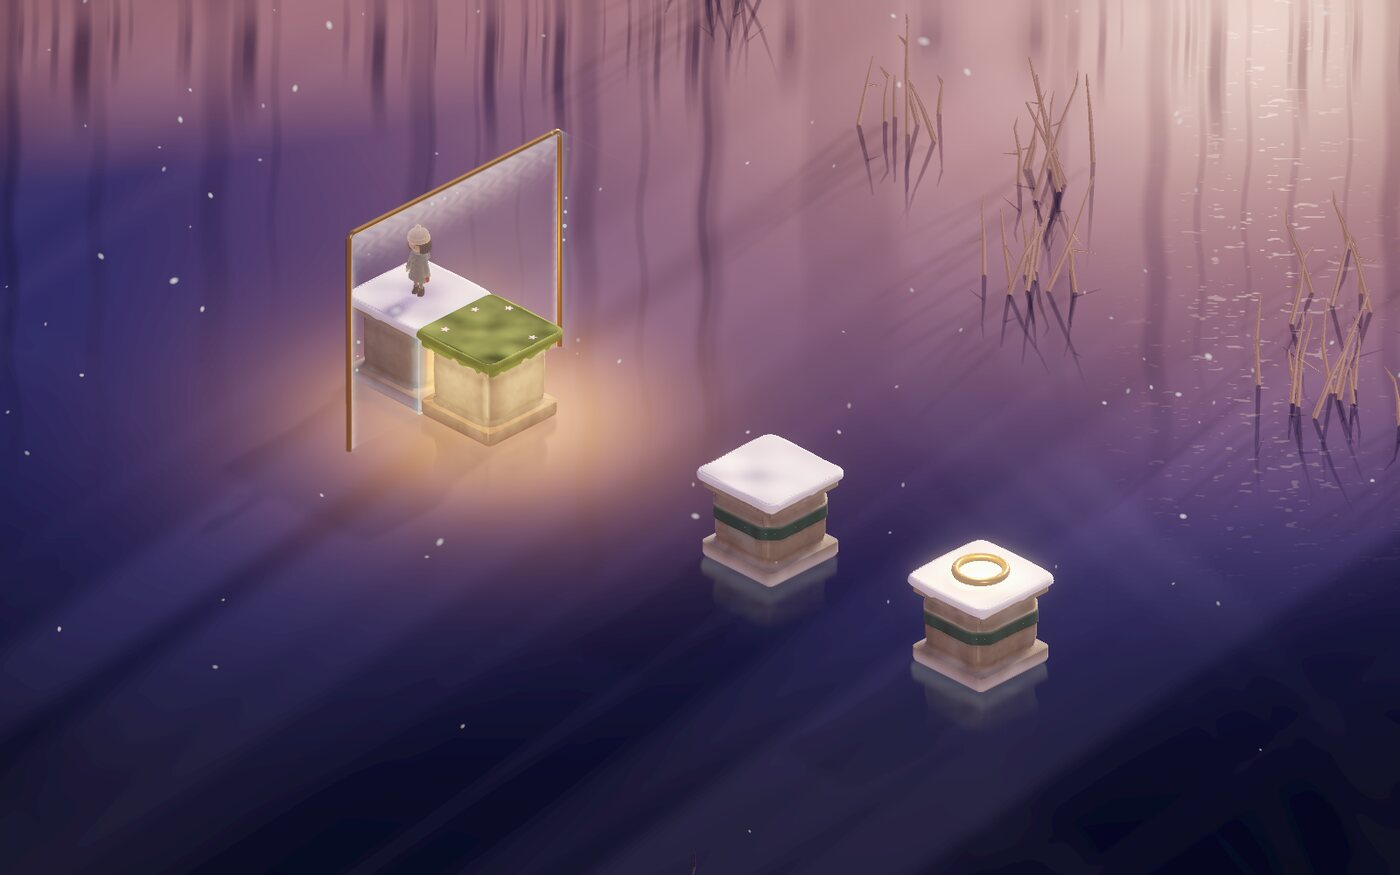
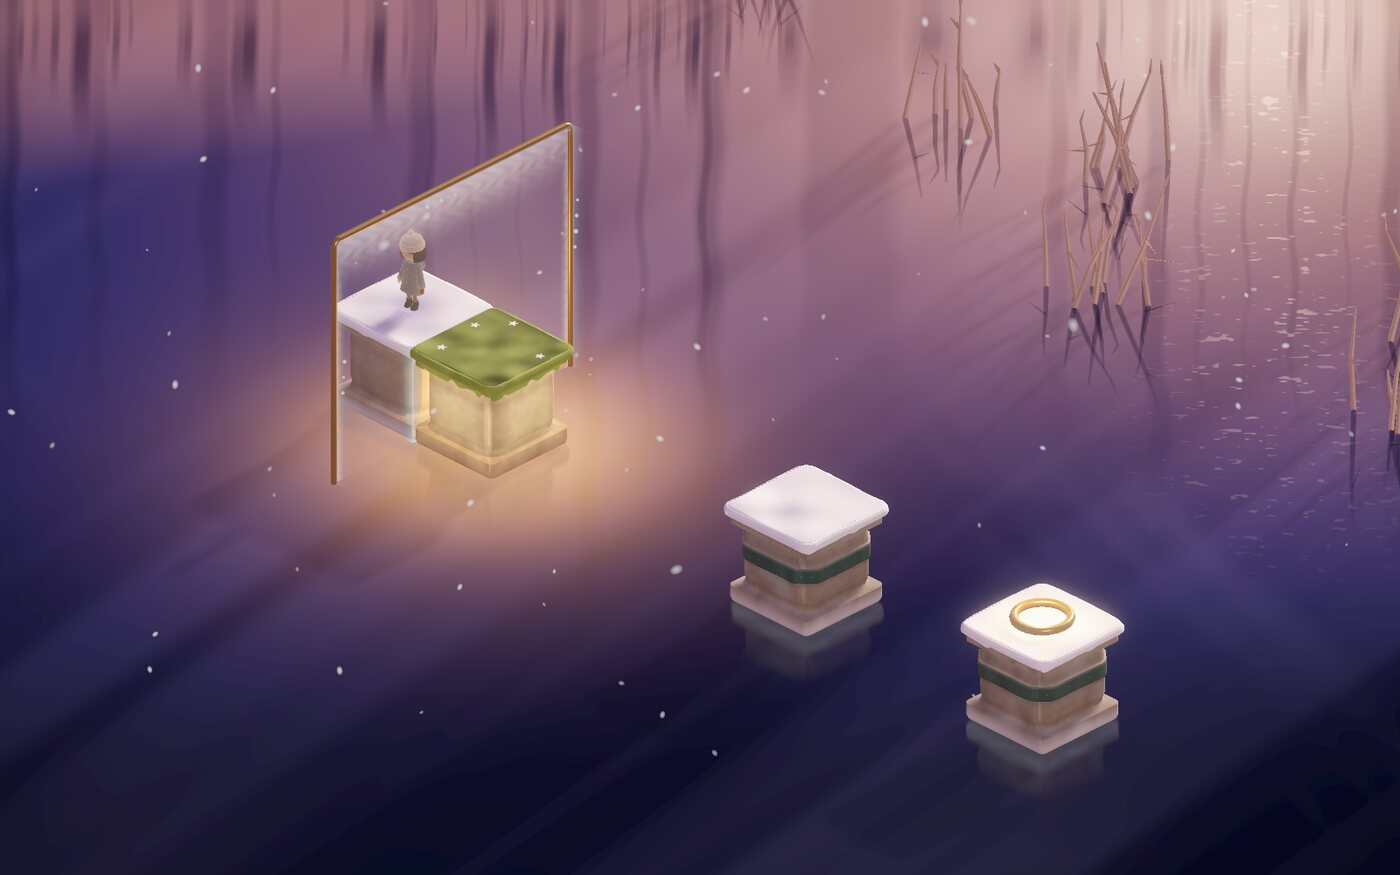
Fit the camera to what is drawn, not to one box round it
The stage camera takes the points a view must show: each solid, the
mirror with room for one step each way, the goal and the girl. One box
round a whole place has corners where nothing stands, and fitting to
them left the place small. A place is 12% larger in its first view and
up to twice as large in a turned view. Callers that give no points get
the old fit.

diff --git a/VALIDATION.md b/VALIDATION.md
@@ -1,7 +1,17 @@
 Entries before commit `b1d2b6d` name studies that were removed. Git history
 keeps them; this log is not rewritten to match.
 
-# Latest check: six more rounds of the polish loop — 2026-11-11
+# Latest check: a tighter camera — 2026-11-11
+
+- Why: the reviews kept listing a small place in an empty frame. Measured first (scratch script, the stage camera's own numbers): the camera fitted the eight corners of one box round everything drawn, and that box has corners where nothing stands. It did not fit unseen control points, as an earlier note said; the ring controls gave no points.
+- Change: `world/stage_camera.gd` takes the points to show (`fit` and `covers` have one new optional argument; with none, they behave as before), and `game.gd` gives it each solid's corners with 0.15 of room, the mirror's corners with one step of room each way, the goal and the girl.
+- Measured scale with the mirror raised, before and after, in pixels per unit: `01_route` 113.4 to 127.2 at 1600x1000 and 44.6 to 50.0 at 844x390; `15_together` 76.3 to 86.0 and 30.0 to 33.8. Turned views gain more (in "Together", about twice the size in its second view). The first view of `01_route` stays the smallest view.
+- Final state, run once, headless, no failures: `run_tests` **689/0**, `gameplay_art_tests` **58/0**, `app_flow_tests` **88/0**, `readability_tests` **11/0**, `level_solvability_tests` **68/0**, `direct_controls_tests` **123/0** (it holds the check that a small slide does not reframe the stage), `edit_mode_tests` **22/0**, `extent_tests` **68/0**, `constellation_tuning_tests` **25/0**, `display_geometry_tests` **4153/0**, `small_fix_tests` **58/0**, `prompt_tests` **84/0**.
+- Pictures: the four views, "Together", the frame with the interface, and for the first time a capture at a true 844x390 with the interface. An independent reviewer (on the state before the room for the mirror's step was added) compared with the wider camera: "closer and larger, so the puzzle reads better", beauty 6/10, readability 6/10 without the interface.
+- Finding, older than this change: **at 844x390 the hint card covers the girl, the mirror and both of its stones.** The reviewer scored readability 3/10 with the interface on a phone. Not fixed.
+- Not checked: how often the view now refits while the mirror slides in play (the room for one step is by reasoning, and by the one test above); the title's view from afar; moving on between places; a played session; a phone.
+
+# Earlier check: six more rounds of the polish loop — 2026-11-11
 
 - Machine and method as in the entry below. The owner asked for more rounds after the first eleven. Rounds 12 to 17, each with a new independent reviewer; from round 14 the reviewer also got a difference image of two frames two seconds apart.
 - What changed: the stone is a pedestal (plinth, rounder shaft, cap slab, a raised bronze band on an absolute); the far light on the ice spreads from the sun's place, not from a level band; tall trees are held far down the ice; the cracks, the fish, the rocks and the posts are gone; reeds and shrubs stand over their own image (a second shader pass, no camera) and are pale toward the sun; the goal ring lights its snow; the girl's colours are taken down by half; snow is drawn out along its fall.

diff --git a/HANDOFF.md b/HANDOFF.md
@@ -37,14 +37,23 @@ Open from the last review, worst first: the lower half of the frame is
 empty; the ice does not read as glass; the reeds toward the sun are a
 lattice of straw; the girl is small; the pane is faint; the copy's moss top
 is flat; "Together" hides its copy from one view. Three need a decision,
-not more shader work:
+not more shader work (the camera is done: see below):
 
-- **The camera frames wider than the stones need** (it also fits the
-  mirror's unseen control points), so the place is small and the girl is
-  about ten pixels on a phone. The loop did not touch the camera.
+- **The hint card on a phone.** At 844x390 it covers the girl, the mirror
+  and both of its stones (`test-output` is not kept; capture with `--size
+  844x390` and no `--clean`). It did so before the camera changed.
 - **How long and sharp the stones' images are.** Long or sharp ones read
   as a second row of stones; short, soft ones as "not a mirror".
 - **How much the girl may differ from her concept colours** on snow.
+
+**The camera** (2026-11-11) is fitted to the points that are drawn (each
+solid, the mirror with room for one step each way, the goal, the girl), not
+to the corners of one box round them all: `points` in
+`world/stage_camera.gd`, `_fit_camera` in `game.gd`. A place is 12% larger
+in the first view of `01_route` and `15_together`, and up to twice as large
+in a turned view. The first view stays the smallest: a long diagonal row and
+a pane three units high set its size. An earlier note here said the camera
+fitted the mirror's unseen control points; that was wrong.
 
 Also open: the colour script cuts when moving on; the scenery appears at
 once with a new place; the title screen was not checked. Frame time on the
